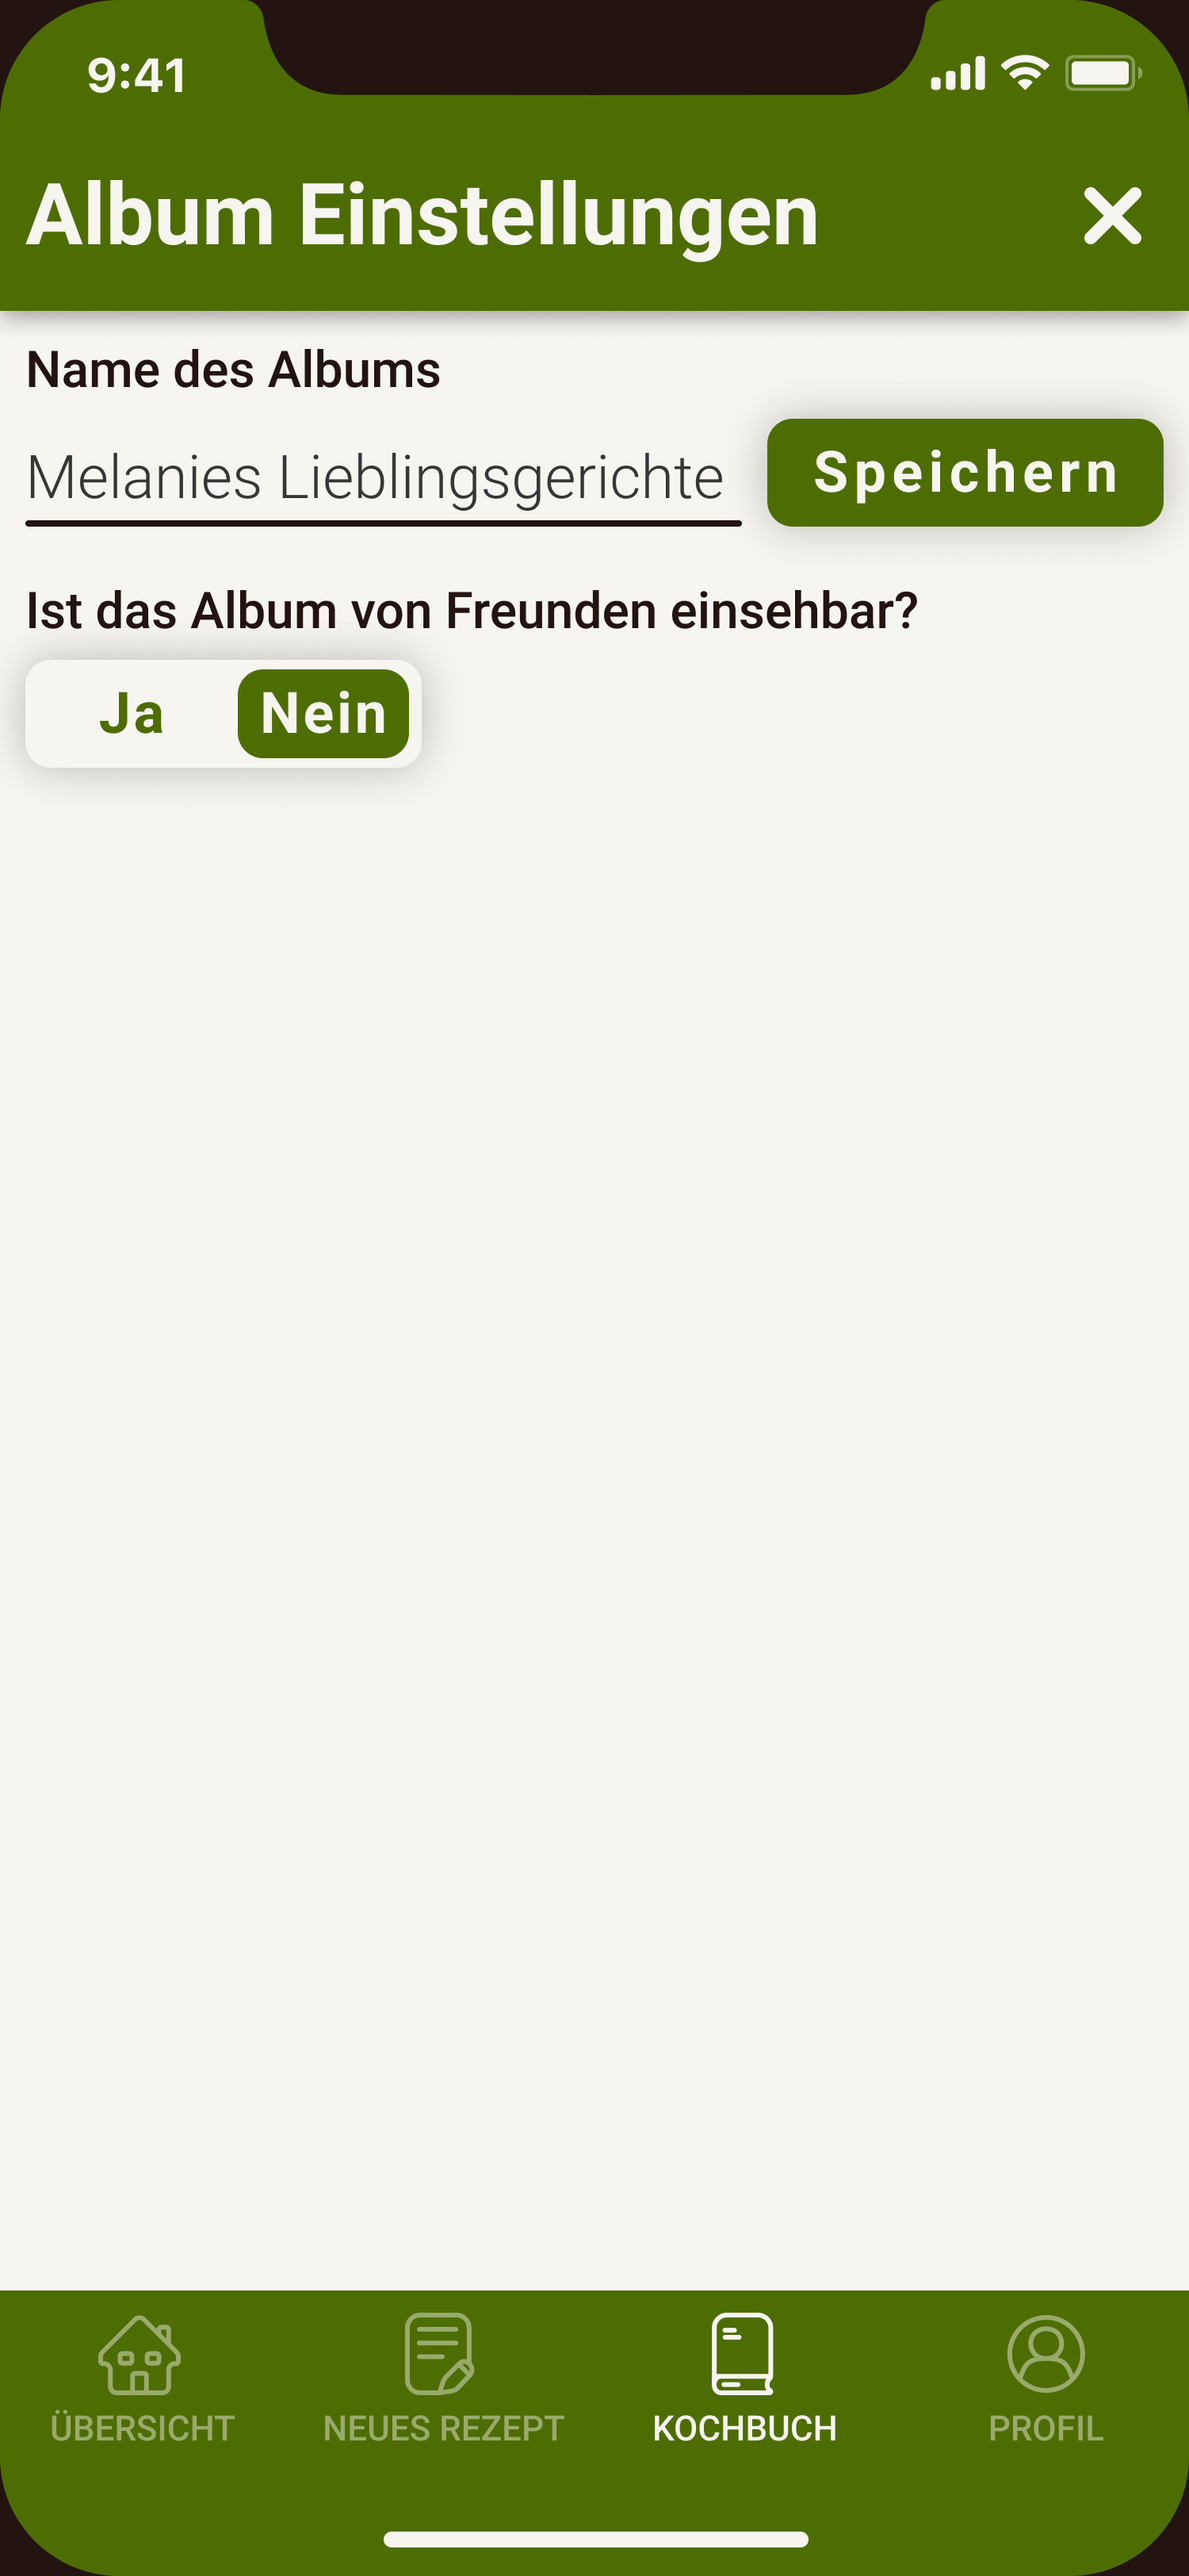
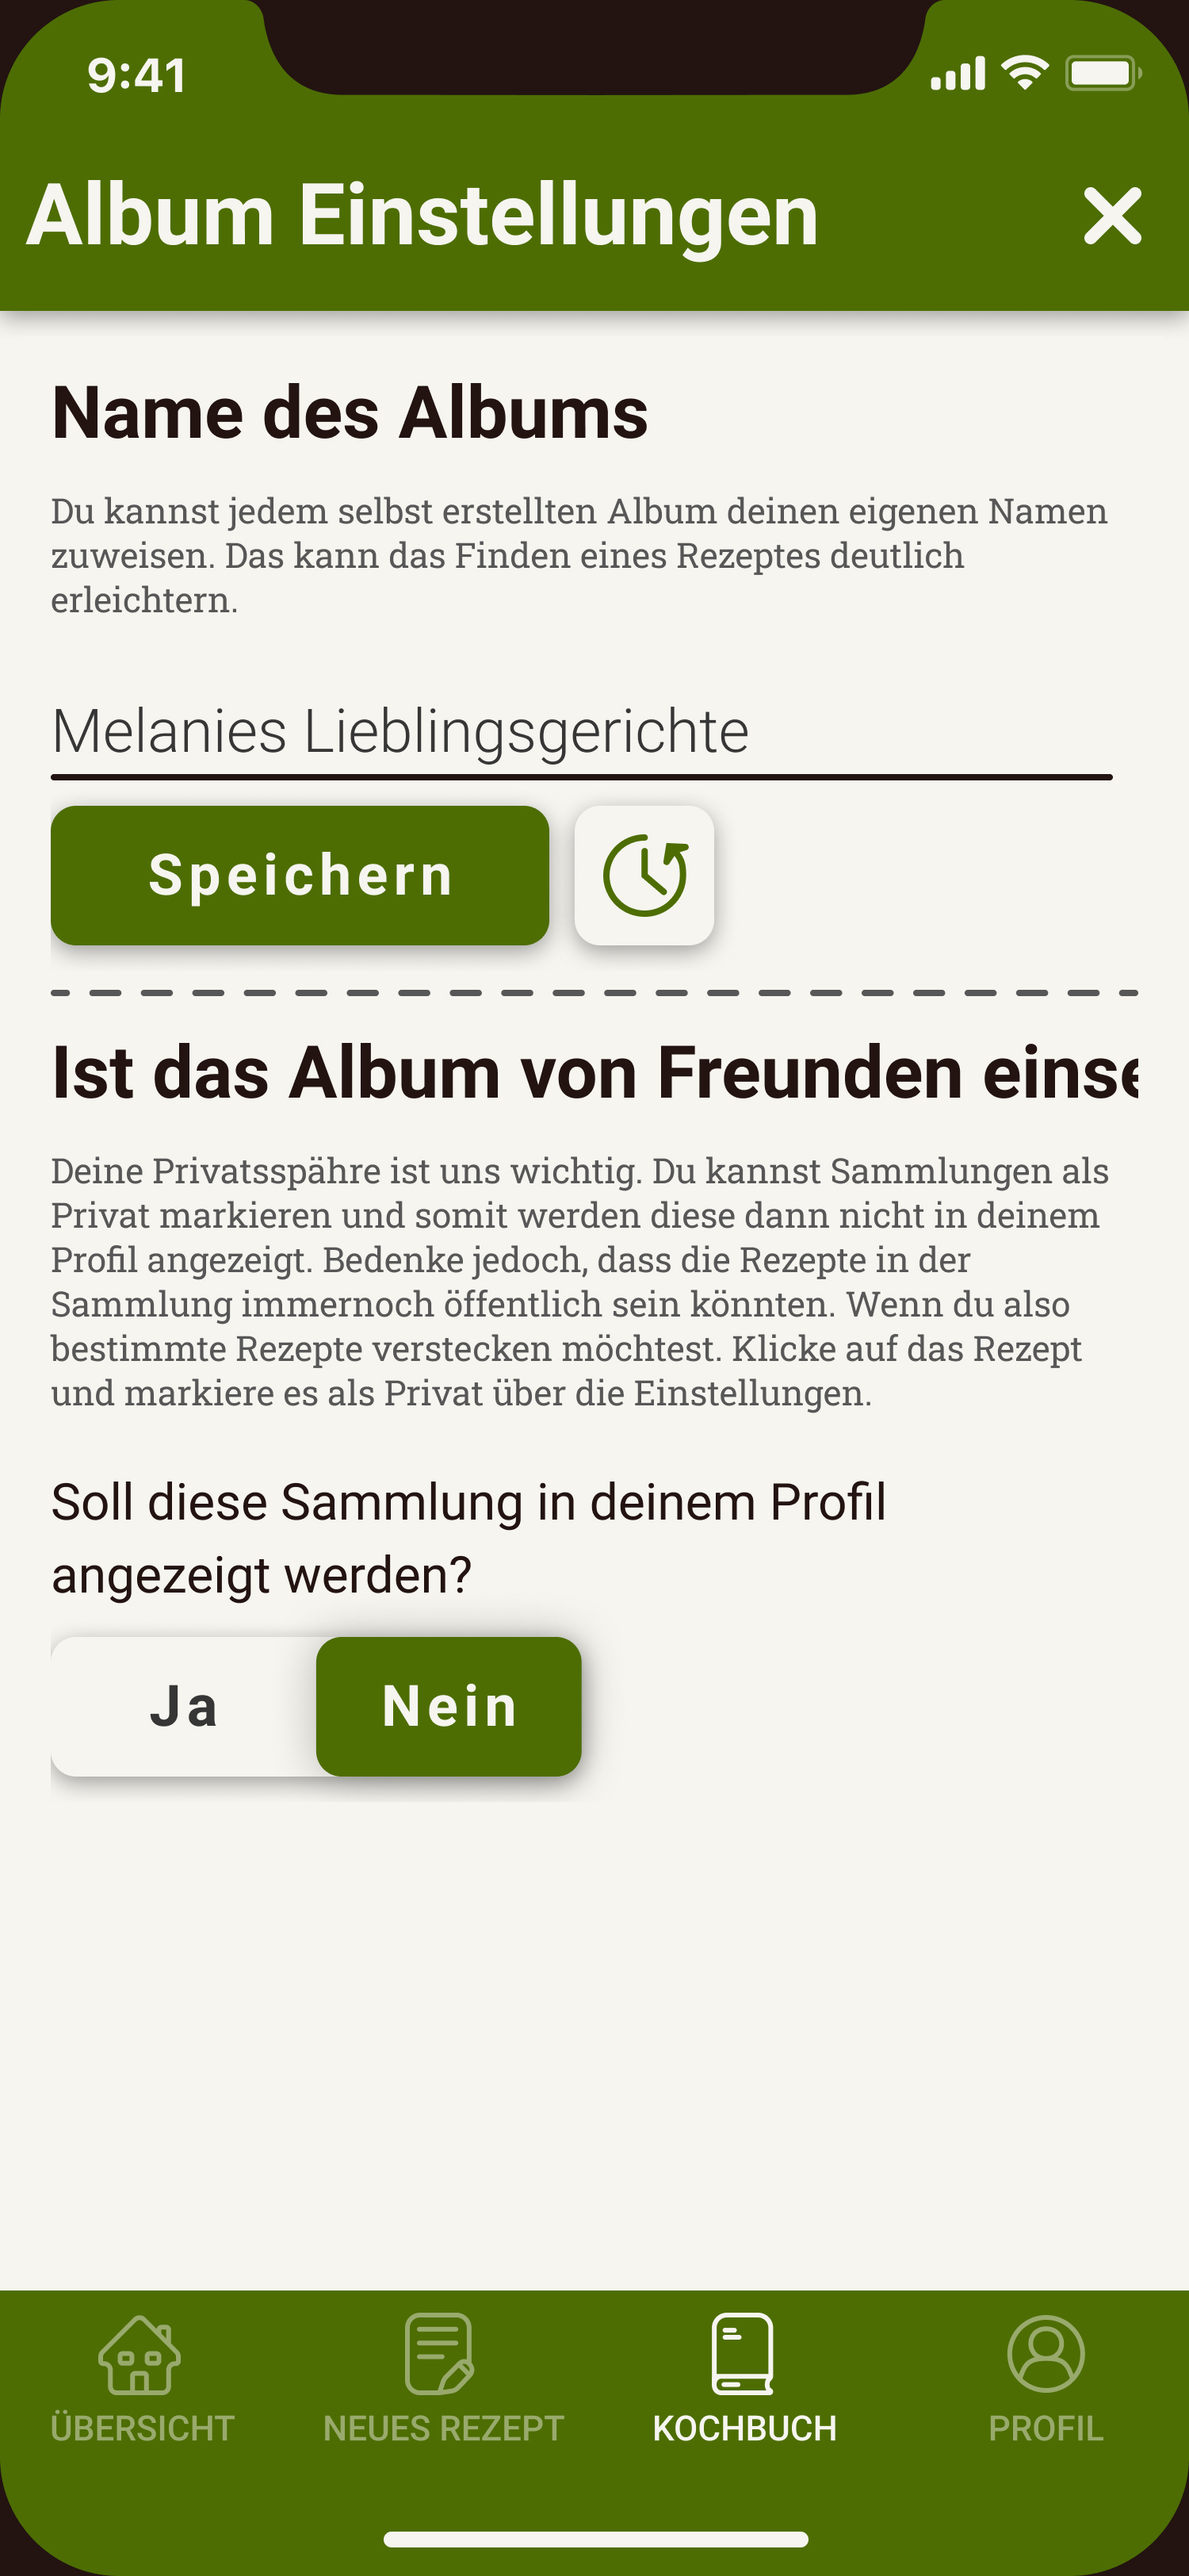
[FEATURE] Add tablet settings screens

Changed region(s): [[0.0307, 0.4042, 0.9507, 0.7152], [0.0307, 0.1244, 0.9813, 0.3732]]

diff --git a/Artefakte/Zeiterfassung/Arbeitsmatrix.md b/Artefakte/Zeiterfassung/Arbeitsmatrix.md
@@ -152,8 +152,11 @@
 | 22       | Interface Design                    | MockUps                                           | [FEATURE]       | Tablet Startseite und Profilübersicht                            | 22.10.21        | 12.10.21            |                 | 4,00            |
 | 22       | Interface Design                    | MockUps                                           | [FEATURE]       | Tablet Mein Kochbuch                                             | 23.10.21        | 12.10.21            |                 | 2,50            |
 |          |                                     |                                                   |                 |                                                                  |                 |                     |                 |                 |
+| 22       | Interface Design                    | MockUps                                           | [FEATURE]       | Tablet Album und Kochbuch Einstellungen                          | 25.10.21        | 12.10.21            |                 | 2,50            |
 |          |                                     |                                                   |                 |                                                                  |                 |                     |                 |                 |
-|          | Stunden insgesamt                   | 326,25                                            | Stunden Seminar | 55                                                               | Stunden Projekt | 271,25              |                 |                 |
-|          |                                     |                                                   | Budget:         | 80                                                               | Budget:         | 43,75               |                 |                 |
+|          |                                     |                                                   |                 |                                                                  |                 |                     |                 |                 |
+|          |                                     |                                                   |                 |                                                                  |                 |                     |                 |                 |
+|          | Stunden insgesamt                   | 328,75                                            | Stunden Seminar | 55                                                               | Stunden Projekt | 273,75              |                 |                 |
+|          |                                     |                                                   | Budget:         | 80                                                               | Budget:         | 41,25               |                 |                 |
 |          | Kredits erreicht:                   | 11                                                |                 |                                                                  |                 |                     |                 |                 |
 |          | Kredits erfordert:                  | 15                                                |
